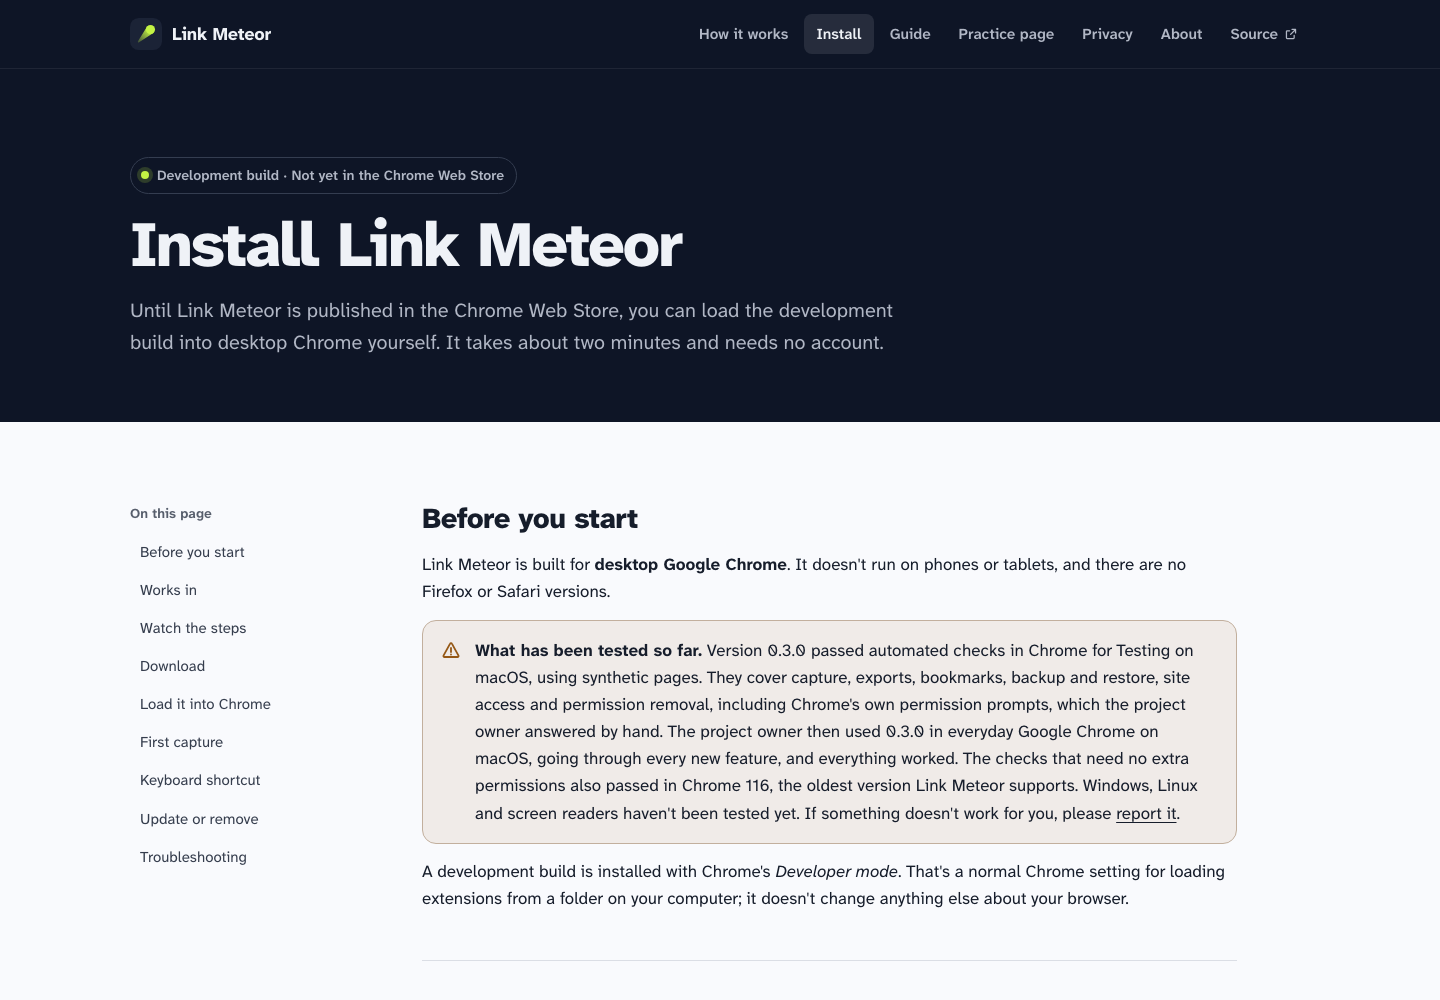
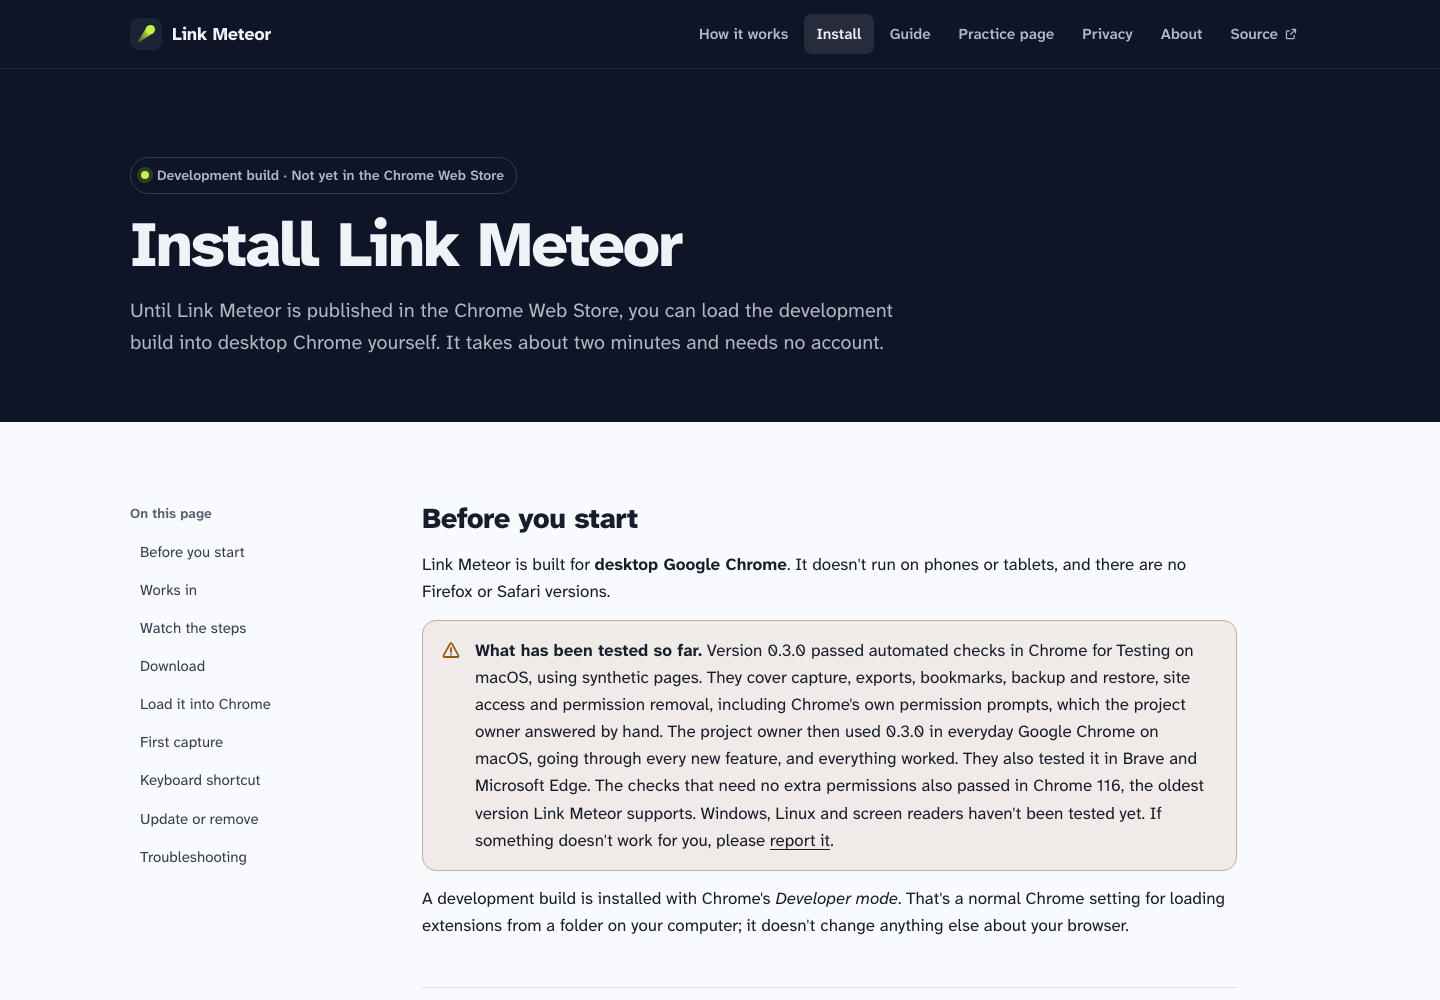
Record the owner's Brave and Edge testing
The owner tested 0.3.0 by hand in Brave and Microsoft Edge on macOS,
and everything worked as in Chrome. The site's Works in section, the
acceptance record, changelog, README and store draft now say so instead
of "expected but not tested". site-check and sync-site --check pass.

Changed region(s): [[0.2812, 0.744, 0.8438, 0.93]]

diff --git a/site/install.html b/site/install.html
@@ -66,7 +66,7 @@
         <section aria-labelledby="before">
           <h2 id="before">Before you start</h2>
           <p>Link Meteor is built for <strong>desktop Google Chrome</strong>. It doesn't run on phones or tablets, and there are no Firefox or Safari versions.</p>
-          <div class="note warn"><svg aria-hidden="true"><use href="assets/img/icons.svg#alert"/></svg><div><p><strong>What has been tested so far.</strong> Version 0.3.0 passed automated checks in Chrome for Testing on macOS, using synthetic pages. They cover capture, exports, bookmarks, backup and restore, site access and permission removal, including Chrome's own permission prompts, which the project owner answered by hand. The project owner then used 0.3.0 in everyday Google Chrome on macOS, going through every new feature, and everything worked. The checks that need no extra permissions also passed in Chrome <span data-build="minimumChromeVersion">116</span>, the oldest version Link Meteor supports. Windows, Linux and screen readers haven't been tested yet. If something doesn't work for you, please <a href="https://github.com/ryanjosephkamp/link-meteor/issues">report it</a>.</p></div></div>
+          <div class="note warn"><svg aria-hidden="true"><use href="assets/img/icons.svg#alert"/></svg><div><p><strong>What has been tested so far.</strong> Version 0.3.0 passed automated checks in Chrome for Testing on macOS, using synthetic pages. They cover capture, exports, bookmarks, backup and restore, site access and permission removal, including Chrome's own permission prompts, which the project owner answered by hand. The project owner then used 0.3.0 in everyday Google Chrome on macOS, going through every new feature, and everything worked. They also tested it in Brave and Microsoft Edge. The checks that need no extra permissions also passed in Chrome <span data-build="minimumChromeVersion">116</span>, the oldest version Link Meteor supports. Windows, Linux and screen readers haven't been tested yet. If something doesn't work for you, please <a href="https://github.com/ryanjosephkamp/link-meteor/issues">report it</a>.</p></div></div>
           <p>A development build is installed with Chrome's <em>Developer mode</em>. That's a normal Chrome setting for loading extensions from a folder on your computer; it doesn't change anything else about your browser.</p>
         </section>
 
@@ -74,10 +74,10 @@
           <h2 id="works">Works in</h2>
           <dl class="defs">
             <dt>Google Chrome</dt><dd>Tested on macOS. Link Meteor needs Chrome <span data-build="minimumChromeVersion">116</span> or newer, and that oldest version passed the automated checks that need no extra permissions.</dd>
-            <dt>Brave and Microsoft Edge</dt><dd>Expected to work, because they run Chrome extensions, but not tested yet.</dd>
+            <dt>Brave and Microsoft Edge</dt><dd>Tested by hand on macOS. Load the ZIP the same way, from the browser's own extensions page with Developer mode on.</dd>
             <dt>Firefox and Safari</dt><dd>Not supported.</dd>
           </dl>
-          <p>Chrome on Windows and Linux hasn't been tested yet either. If you try Link Meteor in Brave, Edge, Windows or Linux, a <a href="https://github.com/ryanjosephkamp/link-meteor/issues">report</a> of what worked helps.</p>
+          <p>Windows and Linux haven't been tested yet. If you try Link Meteor there, or in another Chromium-based browser, a <a href="https://github.com/ryanjosephkamp/link-meteor/issues">report</a> of what worked helps.</p>
         </section>
 
         <section aria-labelledby="watch">

diff --git a/docs/ACCEPTANCE.md b/docs/ACCEPTANCE.md
@@ -8,7 +8,7 @@ The current development build is **0.3.0**. It adds:
 - existing bookmark folders;
 - backup and restore.
 
-Its automated checks passed on September 27, 2026, in Chrome for Testing on macOS, both without optional grants and after the project owner clicked Allow on every native prompt. The owner then checked it by hand in everyday Chrome, and every item passed. This is evidence for those workflows and environments, not universal browser/site compatibility or a complete accessibility certification.
+Its automated checks passed on September 27, 2026, in Chrome for Testing on macOS, both without optional grants and after the project owner clicked Allow on every native prompt. The owner then checked it by hand in everyday Chrome, where every item passed, and in Brave and Microsoft Edge, where everything worked. This is evidence for those workflows and environments, not universal browser/site compatibility or a complete accessibility certification.
 
 ## Current build (0.3.0)
 
@@ -77,7 +77,9 @@ On September 27, 2026, the project owner loaded the release candidate 2 copy, by
 | Chrome's own site-access menu set to On click: hold-drag stops and Link Meteor explains why | Passed |
 | All sites off, then a native Deny on *Capture this page* reports the denial | Passed |
 
-Windows, Linux and other Chromium-based browsers were not part of this check.
+Windows and Linux were not part of this check.
+
+**Brave and Microsoft Edge.** The owner then tested 0.3.0 by hand in Brave and Microsoft Edge on macOS, as thoroughly as they could. Everything worked as intended in both, as in Chrome. This was reported as a whole, without itemized steps or browser versions.
 
 ## Earlier build (0.2.2)
 
@@ -165,7 +167,7 @@ See the [README](../README.md#develop-and-verify) for Node, installed Playwright
 - Screen readers and other assistive technologies.
 - Windows and Linux, and native shortcuts on those systems.
 - Chrome 116 by hand, its toolbar-button behavior, and the checks that need Allow clicks. The automated checks that could run there passed (see above).
-- Other Chromium-based browsers, such as Brave and Edge. They are expected to work, because they run Chrome extensions, but they haven't been tested.
+- Chromium-based browsers other than Chrome, Brave and Edge, and Brave and Edge on Windows and Linux.
 - The website on physical phones and non-Chromium browsers.
 
 Version 0.2.0 received an informal report of successful everyday Chrome use without itemized steps. The 0.3.0 hands-on results above are the owner's report for the current build. Firefox and Safari are not supported ports. Chrome Web Store submission is planned for 0.3.0.

diff --git a/README.md b/README.md
@@ -88,7 +88,7 @@ For a changed build, create a new isolated profile and prepare its grants throug
 
 Tests store isolated profiles and cache under `.scratch/acceptance-final`, bind the local synthetic fixture server to `127.0.0.1:52478`, and fail if that port is occupied. `LINK_METEOR_TEST_PROFILE` and `LINK_METEOR_FIXTURE_PORT` can change these isolated resources. The browser suite **resets collections in its selected test profile**, so never point it at a personal browser profile. Prepare permission grants through the extension in the isolated browser. The harness records a build fingerprint and refuses reuse after packaged bytes change; prepare a fresh named test profile for a changed build. Headless optional-permission behavior was not accepted as native evidence.
 
-`tests/xlsx-fixture.mjs` and `tests/verify-workbook.py` independently check OOXML and, when available, openpyxl parsing. See `docs/ACCEPTANCE.md` for current executed results, commands, native checks and limits. The declared Chrome minimum, 116, passed the checks that need no grants in Chrome for Testing 116; its toolbar and granted checks were not run there. Other operating systems, other Chromium browsers and screen-reader use still need human review.
+`tests/xlsx-fixture.mjs` and `tests/verify-workbook.py` independently check OOXML and, when available, openpyxl parsing. See `docs/ACCEPTANCE.md` for current executed results, commands, native checks and limits. The declared Chrome minimum, 116, passed the checks that need no grants in Chrome for Testing 116; its toolbar and granted checks were not run there. The owner also checked 0.3.0 by hand in Brave and Microsoft Edge on macOS. Other operating systems, other Chromium browsers and screen-reader use still need human review.
 
 ## Website
 

diff --git a/artifacts/evidence-0.3.0-release/README.md b/artifacts/evidence-0.3.0-release/README.md
@@ -22,7 +22,11 @@ These checks cover the packaged 0.3.0 ZIP and the website that offers it. The ex
 | `tests/site-check.mjs` | Pass | [Results](site-results.json). Covers:<br>• pages across widths and light and dark themes;<br>• links, structure and sampled contrast;<br>• the keyboard menu and the interactive demo;<br>• the export preview, using the synced 0.3.0 export modules;<br>• 404 handling and both videos. |
 
 What changed on the site for 0.3.0:
-- **Install page:** the download, the tested-so-far note, a new **Works in** section, the folder listing in the Load step, update and troubleshooting.
+- **Install page:**
+  - the download and the tested-so-far note;
+  - a new **Works in** section: Chrome, Brave and Microsoft Edge tested by hand on macOS; Firefox and Safari not supported;
+  - the folder listing in the Load step;
+  - update and troubleshooting.
 - **Privacy page:** all-sites access, `tabGroups`, `unlimitedStorage`, bookmark folder reading, backups and the restore Undo.
 - **Guide:** hold-key drag, the capture card, opening up to 500, export names and workbooks, existing bookmark folders, backup and restore.
 - **Home page:** the hold key, output options and limits.

diff --git a/CHANGELOG.md b/CHANGELOG.md
@@ -49,7 +49,12 @@ A feature release. The main additions:
 ### Known issues
 
 - Removing all-sites access, with Link Meteor's **Remove Chrome's access** or with Chrome's own controls, can also remove access to sites you allowed one at a time. That is Chrome's behavior. Link Meteor turns hold-key drag off where it no longer has access, and asks again when needed.
-- Tested on macOS only: automated checks in Chrome for Testing 151, the owner's hands-on check in everyday Chrome, and the checks that need no grants on Chrome for Testing 116. Windows, Linux, screen readers, Brave and Edge are not yet tested. See [testing and compatibility](docs/ACCEPTANCE.md).
+- Tested on macOS only:
+  - automated checks in Chrome for Testing 151;
+  - the owner's hands-on checks in everyday Chrome, Brave and Microsoft Edge;
+  - the checks that need no grants on Chrome for Testing 116.
+
+  Windows, Linux and screen readers are not yet tested. See [testing and compatibility](docs/ACCEPTANCE.md).
 - The site's videos and product screenshots still show 0.2.2.
 
 ## 0.2.2 (2026-09-26)

diff --git a/CHROMEWEBSTORE.md b/CHROMEWEBSTORE.md
@@ -195,7 +195,11 @@ Versions 0.1.0 to 0.2.2 were distributed only as a ZIP for Load unpacked and wer
 
 - Chrome does not allow extensions on its own pages, the Chrome Web Store or incognito windows (Link Meteor does not request incognito access).
 - Links inside closed page components cannot be seen or captured. Frames from other sites are reported as unreadable, not skipped silently.
-- Tested on macOS in Chrome and Chrome for Testing, including the automated checks that need no grants on Chrome for Testing 116, the declared minimum. Windows, Linux and other Chromium browsers are listed as untested in `docs/ACCEPTANCE.md` until checked.
+- Tested on macOS:
+  - by hand in Chrome, Brave and Microsoft Edge;
+  - in automation in Chrome for Testing, including the checks that need no grants on Chrome for Testing 116, the declared minimum.
+
+  Windows and Linux are listed as untested in `docs/ACCEPTANCE.md` until checked.
 
 ### Rejection History
 
